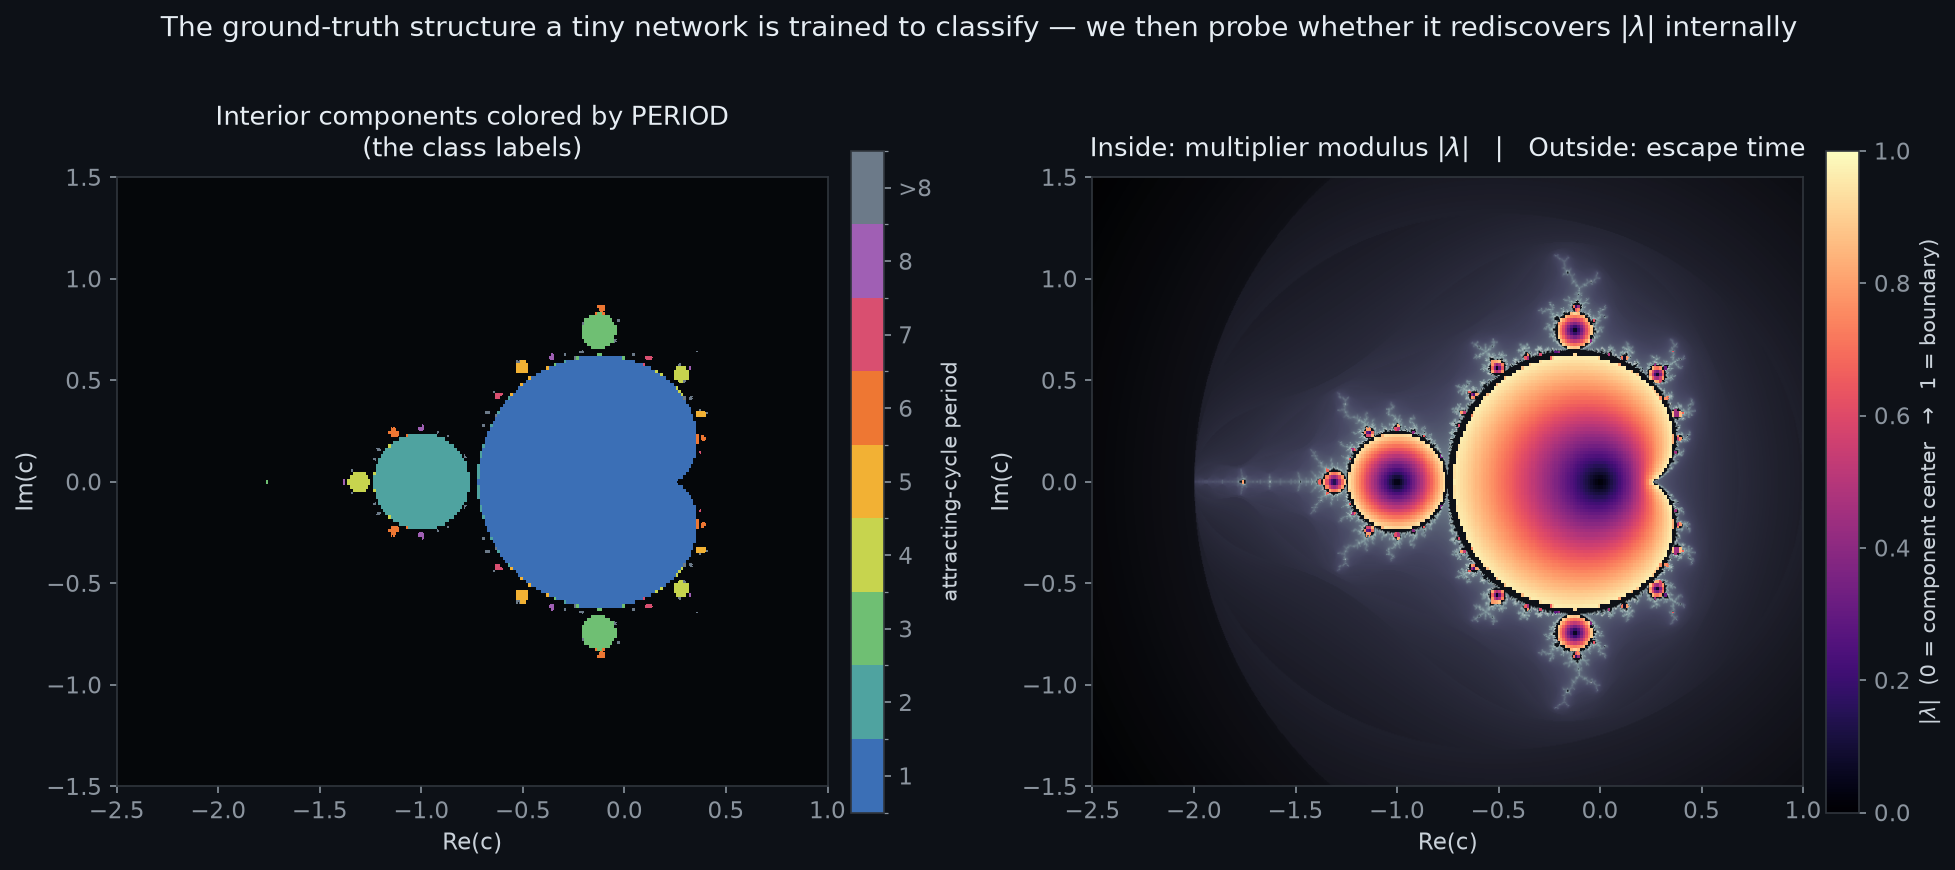
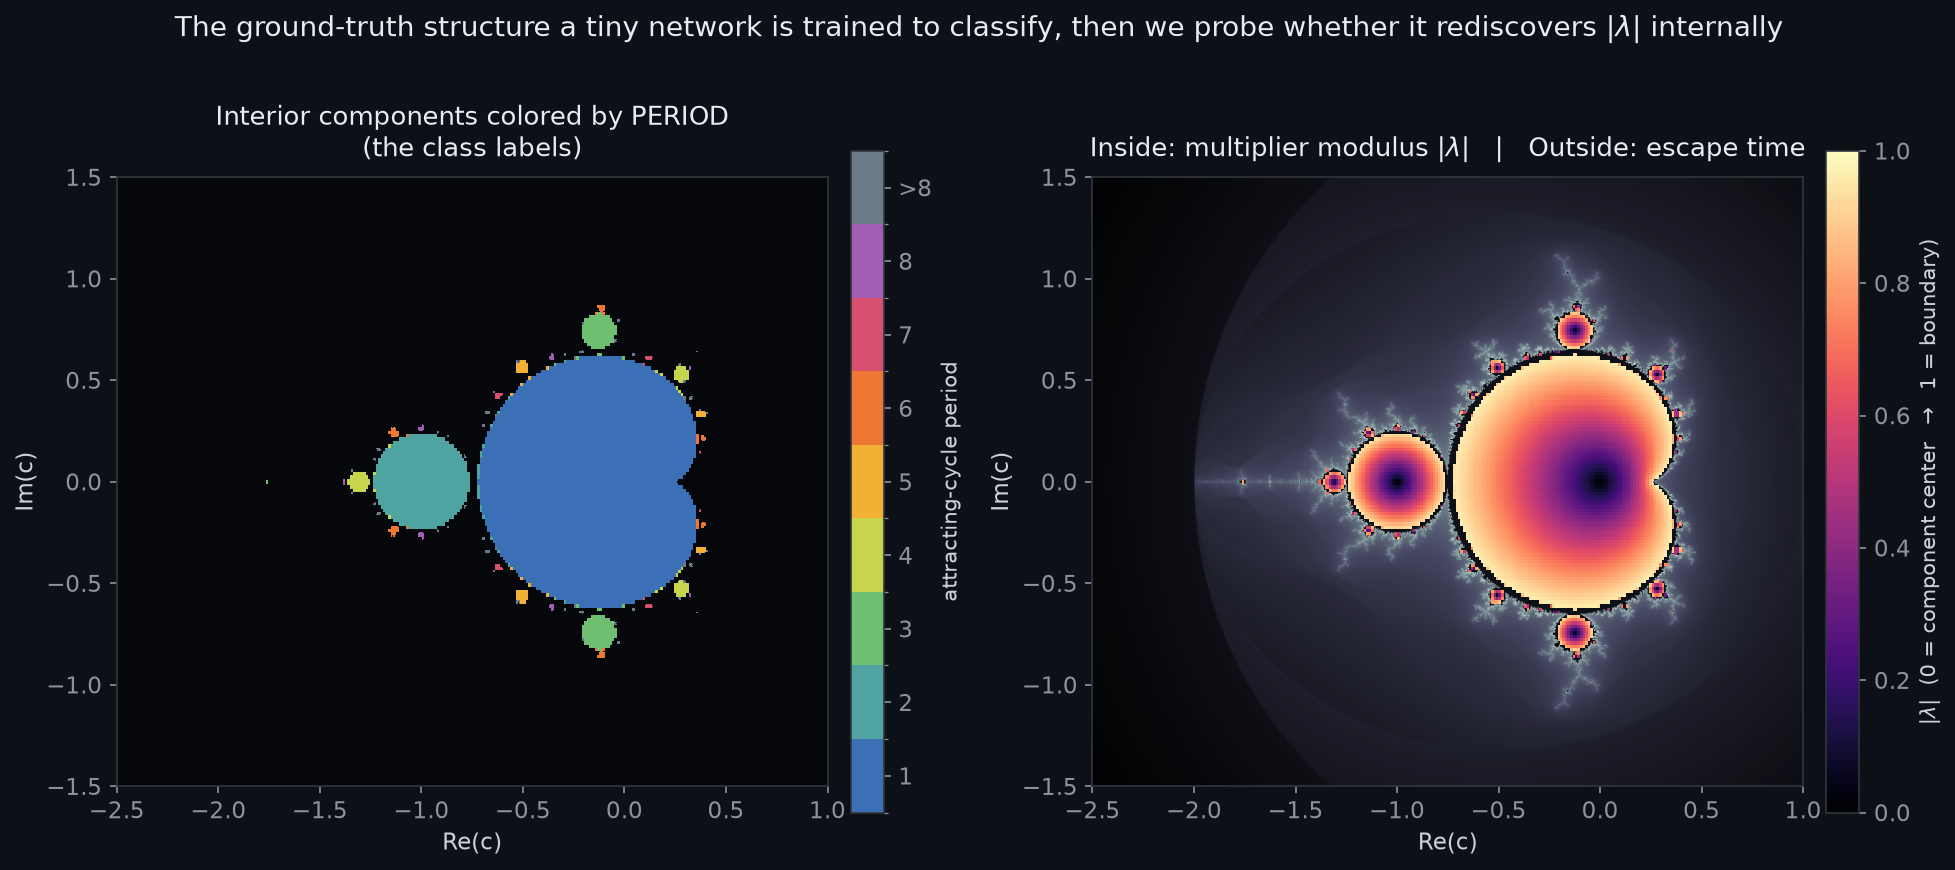
Rewrite the README middle as prose and drop em-dashes everywhere
The two bullet lists in the README were doing the same thing in the same
shape, so I turned them into paragraphs. Also cleared em-dashes from the
docstrings, comments, and the figure title, and regenerated the showpiece
figure so it matches. Tests still pass (35/35); no method or claim changed.

Changed region(s): [[0.0936, 0.0, 0.9361, 0.0621]]

diff --git a/src/train.py b/src/train.py
@@ -1,7 +1,7 @@
 """Training harness for the period-classification MLP (PRE_REGISTRATION §3, frozen).
 
 Frozen specification implemented here:
-  - Input: raw (Re c, Im c) — no Fourier features or other feature engineering.
+  - Input: raw (Re c, Im c), no Fourier features or other feature engineering.
   - Architecture: input projection Linear(2, 256) + 4 hidden Linear(256, 256) layers,
     GELU after every hidden linear, linear 10-way classification head.
     Exact parameter count: 266,506 (the pre-registered figure "≈3.0e5" is a
@@ -197,11 +197,11 @@ def train_one_seed(seed: int, data_dir: str | Path, out_dir: str | Path,
                    shuffle_labels: bool = False,
                    verbose: bool = True) -> dict:
     """Train one seed. Returns a summary dict; writes to out_dir:
-      config.json   — full effective config + seed, written BEFORE training starts
-      step_*.pt     — checkpoints every `checkpoint_every` optimizer steps (incl. init)
-      best.pt       — best-val-loss model
-      final.pt      — model at stop time
-      history.json  — per-epoch train/val loss curves (run artifact, not committed)
+      config.json  = full effective config + seed, written BEFORE training starts
+      step_*.pt    = checkpoints every `checkpoint_every` optimizer steps (incl. init)
+      best.pt      = best-val-loss model
+      final.pt     = model at stop time
+      history.json = per-epoch train/val loss curves (run artifact, not committed)
     """
     out_dir = Path(out_dir)
     out_dir.mkdir(parents=True, exist_ok=True)

diff --git a/src/probes.py b/src/probes.py
@@ -7,17 +7,17 @@ For every hidden layer of a trained period-classification MLP we fit
 predicting three targets:
   - abs_lambda : |λ(c)|, the multiplier-map internal coordinate (interior points only),
   - green      : the Green's function G(c) (escape-side points only),
-  - dist_center: CONTROL target — Euclidean distance from c to the nearest
+  - dist_center: CONTROL target, Euclidean distance from c to the nearest
                  hyperbolic-component center of period ≤ 8 (defined for all points;
                  centers computed deterministically by Newton's method on the
                  critical-orbit polynomial P_p(c), the c with superattracting p-cycles).
 Metric: held-out R² on the test split (selection only ever touches val).
 
 Probe-power controls (PRE_REGISTRATION §4, load-bearing):
-  (a) UNTRAINED control — identical probes on a same-init untrained net
+  (a) UNTRAINED control, identical probes on a same-init untrained net
       (`--untrained --seed N` reproduces the init of training seed N exactly, because
       training uses the same seeded factory `src.train.init_model`).
-  (b) SHUFFLED-LABEL control — identical probes on a net trained with
+  (b) SHUFFLED-LABEL control, identical probes on a net trained with
       `python -m src.train --shuffle-labels` (point `--checkpoint` at that run).
 A representation claim (H1) requires the trained net to beat BOTH controls by the
 pre-registered margin.
@@ -51,7 +51,7 @@ CONTROL_MAX_PERIOD = 8  # centers of period <= 8, matching the labeled period cl
 
 
 # ---------------------------------------------------------------------------
-# Component centers (control target) — deterministic, no external data.
+# Component centers (control target), deterministic, no external data.
 # ---------------------------------------------------------------------------
 
 def critical_orbit_poly(c: np.ndarray, period: int) -> tuple[np.ndarray, np.ndarray]:
@@ -264,7 +264,7 @@ def run_probes(model: MLP, data_dir: str | Path, device: torch.device | str = "c
     """Fit all probes on all hidden layers and all targets. Returns the nested results
     dict {layer: {target: {probe_type: {.., 'test_r2': float}}}} (weights stripped).
 
-    `max_points` (logged when set) subsamples each split deterministically — used by
+    `max_points` (logged when set) subsamples each split deterministically, used by
     the plumbing smoke test only; the pre-registered analysis runs on the full splits.
     """
     splits = {}

diff --git a/src/smoke_test.py b/src/smoke_test.py
@@ -1,4 +1,4 @@
-"""End-to-end PLUMBING smoke test — explicitly NOT a research run.
+"""End-to-end PLUMBING smoke test, explicitly NOT a research run.
 
 Purpose: verify that the pipeline pieces fit together (tiny dataset slice -> brief
 training -> probes incl. both probe-power controls -> ablations + patching) without
@@ -64,7 +64,7 @@ def main() -> None:
     from .probes import run_probes
     from .train import init_model, load_model, train_one_seed
 
-    _say("PLUMBING TEST ONLY — outcome numbers are neither recorded nor reported.")
+    _say("PLUMBING TEST ONLY, outcome numbers are neither recorded nor reported.")
     with tempfile.TemporaryDirectory(prefix="mandel_smoke_") as td:
         tmp = Path(td)
         data_dir = tmp / "data"
@@ -102,7 +102,7 @@ def main() -> None:
         assert "n_pairs" in p, "patching results missing"
 
         # Results dicts go out of scope unread; the temp dir is deleted on exit.
-    _say("OK — full pipeline ran without error (plumbing only; no outcome numbers "
+    _say("OK, full pipeline ran without error (plumbing only; no outcome numbers "
          "recorded; all smoke artifacts deleted).")
 
 

diff --git a/src/figures/showpiece.py b/src/figures/showpiece.py
@@ -218,8 +218,8 @@ def main():
             spine.set_edgecolor("#30363d")
 
     fig.suptitle(
-        "The ground-truth structure a tiny network is trained to classify "
-        "— we then probe whether it rediscovers $|\\lambda|$ internally",
+        "The ground-truth structure a tiny network is trained to classify, "
+        "then we probe whether it rediscovers $|\\lambda|$ internally",
         fontsize=13.5, y=1.005,
     )
     fig.tight_layout(rect=(0, 0, 1, 0.97))

diff --git a/tests/test_ablations.py b/tests/test_ablations.py
@@ -1,7 +1,7 @@
 """Contract tests for ablations + activation patching: orthonormality, the algebra of
 the activation edits, pair-finding rules, and patching mechanics.
 
-NO research-outcome assertions — synthetic activations and untrained nets only.
+NO research-outcome assertions, synthetic activations and untrained nets only.
 """
 
 import numpy as np
@@ -108,7 +108,7 @@ def test_find_patch_pairs_empty_when_no_interior():
 
 def test_activation_patching_mechanics():
     """Full penultimate swap means the patched prediction equals the donor's
-    prediction — verified against a direct forward pass (mechanics, not outcomes)."""
+    prediction, verified against a direct forward pass (mechanics, not outcomes)."""
     model = init_model(0)
     X = np.random.default_rng(4).uniform(-2, 1, size=(4, 2)).astype(np.float32)
     with torch.no_grad():

diff --git a/tests/test_train.py b/tests/test_train.py
@@ -1,6 +1,6 @@
 """Contract tests for the training harness: shapes, frozen config, checkpoint cadence.
 
-NO outcome assertions (no accuracy/loss/R² thresholds) — those are reserved for the
+NO outcome assertions (no accuracy/loss/R² thresholds), those are reserved for the
 pre-registered analysis. Training here happens only on tiny SYNTHETIC data (conftest)
 to exercise plumbing.
 """
@@ -41,7 +41,7 @@ def test_param_count_matches_prereg():
     # silently change capacity:
     assert n == 266_506
     # The pre-registered "≈3.0e5" is a one-significant-figure approximation of this
-    # count; assert we are in that ballpark (within 12% — the exact value above is
+    # count; assert we are in that ballpark (within 12%, the exact value above is
     # 11.2% below the rounded figure).
     assert abs(n - 3.0e5) / 3.0e5 < 0.12
 

diff --git a/src/dynamics.py b/src/dynamics.py
@@ -9,7 +9,7 @@ Everything here is deterministic and reproducible. For a point c we compute:
             canonical internal coordinate (|lambda| < 1 strictly inside, = 1 on the boundary).
 
 These are the ground-truth targets the interpretability probes (PRE_REGISTRATION H1/H2/H3)
-will look for inside a trained network. No network here — labels only.
+will look for inside a trained network. No network here, labels only.
 """
 
 from __future__ import annotations

diff --git a/tests/conftest.py b/tests/conftest.py
@@ -1,6 +1,6 @@
 """Shared fixtures: tiny SYNTHETIC datasets for plumbing/contract tests.
 
-These rows are random placeholders in the generator's on-disk format — they carry no
+These rows are random placeholders in the generator's on-disk format, they carry no
 dynamics information and exist only so shape/config/contract tests never touch the
 real (gated) dataset build or assert anything about research outcomes.
 """

diff --git a/tests/test_probes.py b/tests/test_probes.py
@@ -126,7 +126,7 @@ def test_target_arrays_masks_keep_domains_clean():
 
 
 def test_run_probes_result_structure(synth_data_dir):
-    """Structure only — values are never asserted (they are outcomes)."""
+    """Structure only, values are never asserted (they are outcomes)."""
     model = init_model(0)  # untrained: structure is identical to the real protocol
     res = run_probes(model, synth_data_dir, device="cpu",
                      probe_types=("linear", "mlp2"), mlp_epochs=1, seed=0)

diff --git a/README.md b/README.md
@@ -18,14 +18,12 @@ interior cycle has, and the precise value of a hidden coordinate called the **mu
 modulus |λ|** that runs from 0 at a component's center to 1 at its boundary.
 
 That exactness is the whole point. Most interpretability research has to guess at what a
-network "should" represent. Here the ground truth is a theorem, not a hunch, so when we look
-inside a trained net and ask "is |λ| in here?", we can give a clean, causal answer. The result
-is interesting either way:
-
-- **If the network builds |λ|**, a tiny net rediscovered a piece of complex-dynamics theory
-  from nothing but coordinates and labels: a concrete "world model" on a continuous task.
-- **If it doesn't**, we have a crisp, publishable account of what small networks learn
-  *instead* (a boundary-memorizer) and why.
+network "should" represent. Here the ground truth is a theorem, not a hunch, so when I look
+inside a trained net and ask "is |λ| in here?", I can give a clean, causal answer. Either way
+the answer is worth having. If the network builds |λ|, then a tiny net rediscovered a piece of
+complex-dynamics theory from nothing but coordinates and labels, which is a concrete world model
+on a continuous task rather than the usual discrete-board setting. If it doesn't, I get a crisp
+account of what small networks learn instead, namely a boundary-memorizer, and why.
 
 ![Two-panel render of the Mandelbrot set: left, interior components colored by period; right, multiplier modulus inside and escape-time shading outside](docs/figures/mandelbrot_label_structure.png)
 
@@ -39,37 +37,38 @@ Both panels are computed exactly from the dynamics, not from any model.*
 
 ## How it works
 
-- **Exact labels, no dataset to download.** A small, validated dynamics core
-  (`src/dynamics.py`) computes period, |λ| (via Newton-refined cycles), and the escape-side
-  Green's function G(c) for any point. Labels are generated deterministically from a fixed seed.
-- **A deliberately plain network.** The MLP sees only the raw coordinates `(Re c, Im c)`, with
-  no Fourier features and no hand-engineered inputs, so any structure it represents it had to
-  *build* itself. The architecture is frozen in the pre-registration.
-- **Linear and nonlinear probes.** We fit probes for |λ|, G(c), and a control coordinate on
-  every hidden layer, and measure held-out R².
-- **Probe-power controls.** The same probes are run on an *untrained* net and on a net trained
-  on *shuffled* labels. A representation claim only counts if the trained net beats both, which
-  rules out "a probe can fit anything from rich-enough features."
-- **Causal tests, not just correlations.** We ablate the top probe directions and patch
-  activations between points at different |λ|, and check whether the network's predictions
-  actually depend on the structure we claim to have found.
+There is no dataset to download, because every label is computed. A validated dynamics core
+(`src/dynamics.py`) gives me the period, the multiplier modulus |λ| (via Newton-refined
+cycles), and the escape-side Green's function G(c) for any point c, all generated
+deterministically from a fixed seed. The network itself is deliberately plain: an MLP that
+sees only the raw coordinates `(Re c, Im c)`, with no Fourier features and nothing
+hand-engineered, so whatever structure it ends up representing it had to build on its own. The
+architecture is frozen in the pre-registration.
+
+To read that structure out, I fit probes for |λ|, G(c), and a control coordinate on every
+hidden layer and measure held-out R². The catch with any probing result is that a probe can fit
+almost anything given rich enough features, so the same probes are run on an untrained net and
+on a net trained with shuffled labels, and a representation claim only counts if the trained net
+beats both of those controls. Correlation isn't the finish line either: I ablate the top probe
+directions and patch activations between points at different |λ|, then check whether the
+network's predictions actually move when I disturb the structure I claim to have found.
 
 ---
 
 ## What makes it rigorous
 
-- **Pre-registered before training.** Every hypothesis, threshold, and probe protocol was
-  committed to [`PRE_REGISTRATION.md`](PRE_REGISTRATION.md) *before any network was trained*,
-  with a git timestamp. That is what makes a "the net encodes |λ|" claim credible rather than
-  a story fit after the fact.
-- **A clean null is a result.** The "boundary-memorizer" outcome is fully specified in advance
-  and reported with the same weight as a positive finding.
-- **Controls are load-bearing, not decorative.** Untrained-net and shuffled-label baselines are
-  required passes, not afterthoughts.
-- **Reproducible from scratch.** Labels are generated from a fixed seed; the dynamics core is
-  validated against analytically-known points; results run on a laptop CPU.
-- **Reported across five seeds**, with bootstrap confidence intervals, and no silently-dropped
-  classes (the hard boundary region is always shown).
+The whole design is pre-registered. Every hypothesis, threshold, and probe protocol went into
+[`PRE_REGISTRATION.md`](PRE_REGISTRATION.md) with a git timestamp before any network was
+trained, which is what keeps a "the net encodes |λ|" claim from being a story fit after the
+fact. The boundary-memorizer outcome is written up in advance too, and it carries the same
+weight as a positive finding, so a clean null is a real result here rather than a
+disappointment.
+
+The controls do actual work. The untrained-net and shuffled-label baselines are required
+passes, not decoration bolted on at the end. Everything reproduces from scratch on a laptop
+CPU: labels come from a fixed seed and the dynamics core is validated against points whose math
+is known analytically. Results are reported across five seeds with bootstrap confidence
+intervals, and the hard boundary region is always shown rather than quietly dropped.
 
 ---
 

diff --git a/PRE_REGISTRATION.md b/PRE_REGISTRATION.md
@@ -1,4 +1,4 @@
-# Pre-Registration — Mandel-Interp
+# Pre-Registration: Mandel-Interp
 
 **Locked:** 2026-06-11 (git commit timestamp is authoritative). No network has been trained
 and no probe/ablation has been run at lock time. The dataset is generated deterministically
@@ -18,7 +18,7 @@ side), or only a memorized boundary lookup? The claim is about the network, not 
 ground truth is exactly computable (`src/dynamics.py`, validated against analytically-known
 points), which is what enables clean causal interpretability.
 
-## 2. Data (computed, deterministic — `src/build_dataset.py`)
+## 2. Data (computed, deterministic; `src/build_dataset.py`)
 - Map z → z² + c; escape radius 2; `max_iter = 50000` for escape labels.
 - Period via cycle detection; multiplier λ = ∏ 2·zᵢ over the attracting cycle (|λ| is the
   internal coordinate, < 1 strictly inside, = 1 on the boundary); a detected repelling cycle
@@ -34,8 +34,8 @@ points), which is what enables clean causal interpretability.
 - Label cross-check: component centers validated against Zenodo record 10.5281/zenodo.15527027.
 
 ## 3. Models (frozen)
-- **Architecture:** MLP, input (Re c, Im c) **raw** (no Fourier/feature engineering — the point
-  is whether the net *builds* |λ| internally from coordinates), 4 hidden layers × width 256,
+- **Architecture:** MLP, input (Re c, Im c) **raw** (no Fourier/feature engineering, since the
+  point is whether the net *builds* |λ| internally from coordinates), 4 hidden layers × width 256,
   GELU activations, linear 10-way classification head. ≈3.0×10⁵ params.
 - **Training:** AdamW, lr 1e-3 with cosine decay, weight decay 1e-4, batch 1024, ≤300 epochs
   with early stop on val loss; PyTorch CPU/MPS. **Seeds {0,1,2,3,4}** (all reported).
@@ -74,7 +74,7 @@ and per-stratum accuracy (the boundary class is never silently dropped), the cau
 table, and the training-dynamics curves.
 
 ## 7. Prior art engaged
-arXiv:2509.00903 (fractal classification, accuracy-only — we add the interpretability it omits);
+arXiv:2509.00903 (fractal classification, accuracy-only, where we add the interpretability it omits);
 Nanda et al. "Progress measures for grokking" (ICLR 2023); Power et al. 2022; Zhong et al.
 "Clock and Pizza" 2023; Li et al. Othello-GPT world models (ICLR 2023); Hewitt & Liang 2019
 (probe-power baselines). Component-center reference: Vigneron & Mihalache (Zenodo 15527027).
@@ -82,7 +82,7 @@ Nanda et al. "Progress measures for grokking" (ICLR 2023); Power et al. 2022; Zh
 ## 8. Deviations
 None at lock. Amendments appear below this line, dated and labeled, never edited in place.
 
-**AMENDMENT 1 (2026-06-11, pre-training — clarification, no outcome data seen).** §3's
+**AMENDMENT 1 (2026-06-11, pre-training, clarification, no outcome data seen).** §3's
 architecture clause is ambiguous between MLP realizations: "4 hidden layers × width 256" with
 a separate input projection gives 266,506 params; folding the input layer into the four gives
 200,714; five weight matrices of width 256 give 332,298. No width-256 4-hidden-layer

diff --git a/data/README.md b/data/README.md
@@ -1,4 +1,4 @@
-# Data — generated, not downloaded
+# Data: generated, not downloaded
 
 This project's data is **computed deterministically**, not fetched. Run the generator (built
 in `src/`, idempotent, NumPy PCG64 seed 20260611) to produce the labeled set
@@ -7,5 +7,5 @@ boundary-enriched stratum. Raw arrays land under `data/` (gitignored); the small
 dataset goes in `results/` with a DOI at publication.
 
 One external cross-check (read-only): hyperbolic-component centers to period 32, public Zenodo
-record **10.5281/zenodo.15527027** (Vigneron & Mihalache, CC-BY-4.0) — used only to validate
+record **10.5281/zenodo.15527027** (Vigneron & Mihalache, CC-BY-4.0), used only to validate
 generated period/center labels, never as a training input.